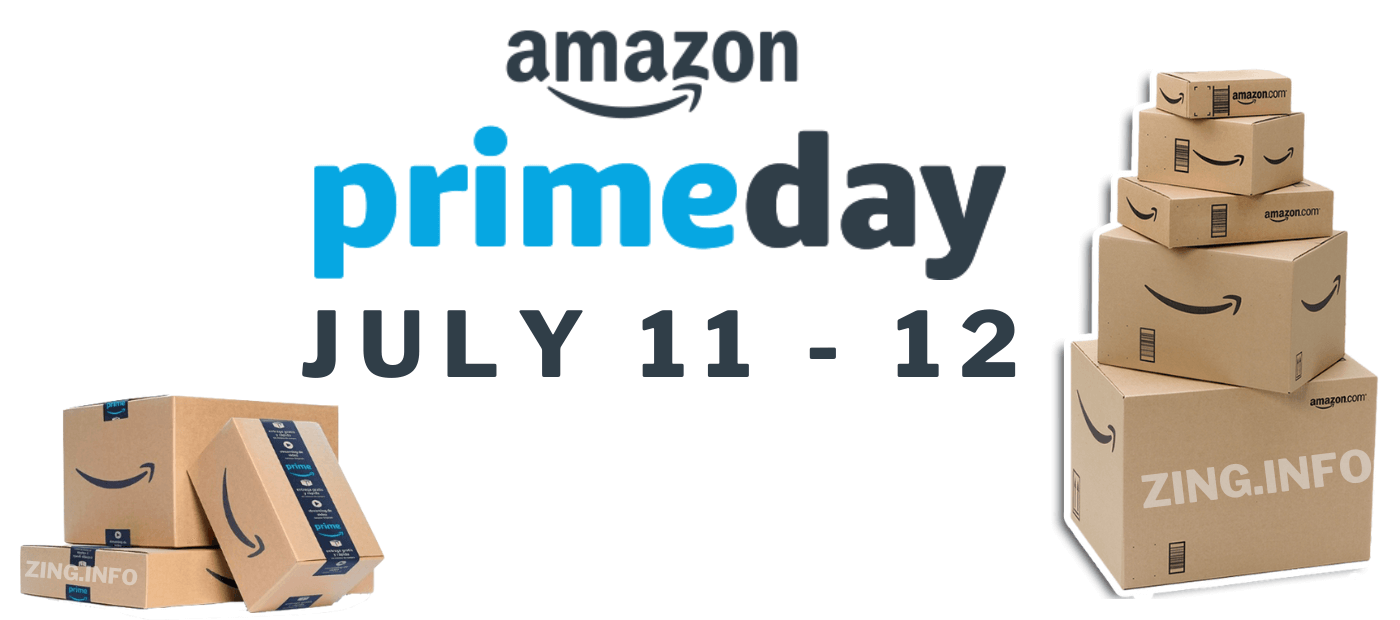
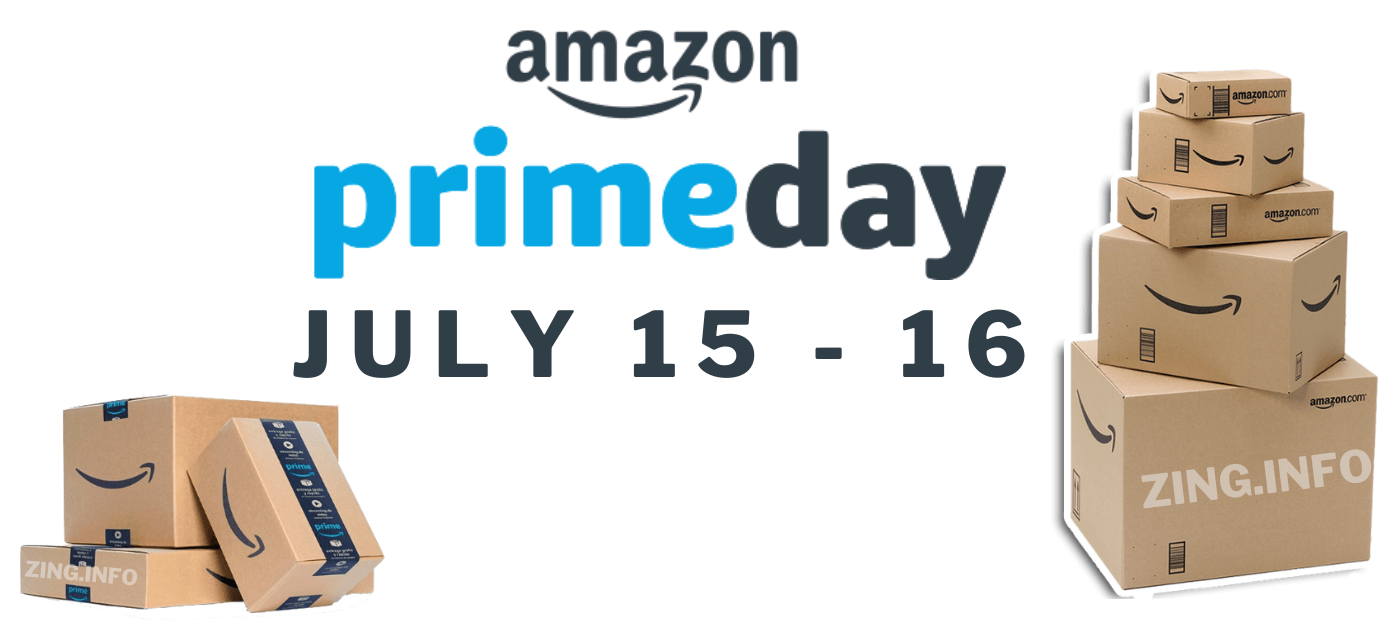
Prime day article

Changed region(s): [[0.1843, 0.4903, 0.43, 0.6129], [0.43, 0.4903, 0.5836, 0.6129], [0.645, 0.4903, 0.7371, 0.6129]]

diff --git a/_posts/2023-06-23-10-amazon-prime-day-2023.md b/_posts/2023-06-23-10-amazon-prime-day-2023.md
@@ -1,0 +1,87 @@
+---
+layout: post
+current: post
+cover: assets/images/amazon-prime-day-2023.png
+navigation: True
+title: 'Amazon Prime Day is Here: Unlock Exclusive Deals for July 15th and 16th!'
+date: 2023-07-05 20:00:00
+tags: [Amazon Prime Day 2023]
+class: post-template
+subclass: 'post'
+author: zing-team
+---
+
+Get ready for the biggest shopping extravaganza of the year -
+Amazon Prime Day!
+
+Mark your calendars for **July 15th and 16th** as Amazon Prime members enjoy two
+days of incredible deals, discounts,
+and
+exclusive offers across a wide range of categories.
+
+From cutting-edge electronics to trendy fashion,
+kitchen essentials to top-notch appliances,
+Prime Day is the perfect
+time to fulfill your shopping desires.
+
+<iframe width="560" height="315" src="https://www.youtube.com/embed/x_NKGl8KbeM?rel=0" title="YouTube video player"
+  frameborder="0"
+  allow="accelerometer; autoplay; clipboard-write; encrypted-media; gyroscope; picture-in-picture; web-share"
+  allowfullscreen></iframe>
+
+## Deals to look out for:
+
+#### Smartphones:
+Upgrade your smartphone game with Prime Day offers on the latest mobiles.
+Discover unbeatable deals on popular brands, including Apple, Samsung, OnePlus,
+and more.
+Whether you're looking for flagship devices or budget-friendly options,
+Prime Day has got you covered.
+
+Link to Amazon - [https://amzn.to/3PHpJ0E](https://amzn.to/3PHpJ0E)
+
+#### Fashion:
+Revamp your wardrobe with stunning fashion finds.
+Explore a vast selection of clothing, footwear, and accessories for men, women,
+and children.
+From trendy summer styles to timeless classics,
+Prime Day offers exclusive deals on renowned fashion brands.
+
+Link to Amazon - [https://amzn.to/44dmH8K](https://amzn.to/44dmH8K)
+
+#### Kitchenware:
+Upgrade your culinary skills with top-quality kitchenware.
+Prime Day brings you incredible discounts on cookware sets, kitchen appliances,
+and handy gadgets.
+Elevate your cooking experience and create mouthwatering dishes with
+the best tools in the kitchen.
+
+Link to Amazon - [https://amzn.to/3XFdnYX](https://amzn.to/3XFdnYX)
+
+#### Laptops:
+Looking for a new laptop?
+Prime Day is the ideal time to score great deals on laptops from leading
+manufacturers.
+Whether you need a high-performance device for work or a portable laptop for
+on-the-go productivity,
+Prime Day offers the best options at unbeatable prices.
+
+Link to Amazon - [https://amzn.to/3CYgGB5](https://amzn.to/3CYgGB5)
+
+#### Headphones:
+Immerse yourself in crystal-clear audio with Prime Day deals on headphones.
+Explore a wide range of options, including wireless earbuds,
+noise-canceling headphones,
+and gaming headsets.
+Enjoy your favorite music, podcasts,
+and games with enhanced sound quality.
+
+Link to Amazon - [https://amzn.to/3PKCrMi](https://amzn.to/3PKCrMi)
+
+#### Washing Machines:
+Upgrade your laundry routine with Prime Day discounts on washing machines.
+Discover energy-efficient models, smart features,
+and advanced technologies that make laundry a breeze.
+Transform your home with top-rated washing machines at irresistible prices.
+
+Link to Amazon - [https://amzn.to/3PFL8qX](https://amzn.to/3PFL8qX)
